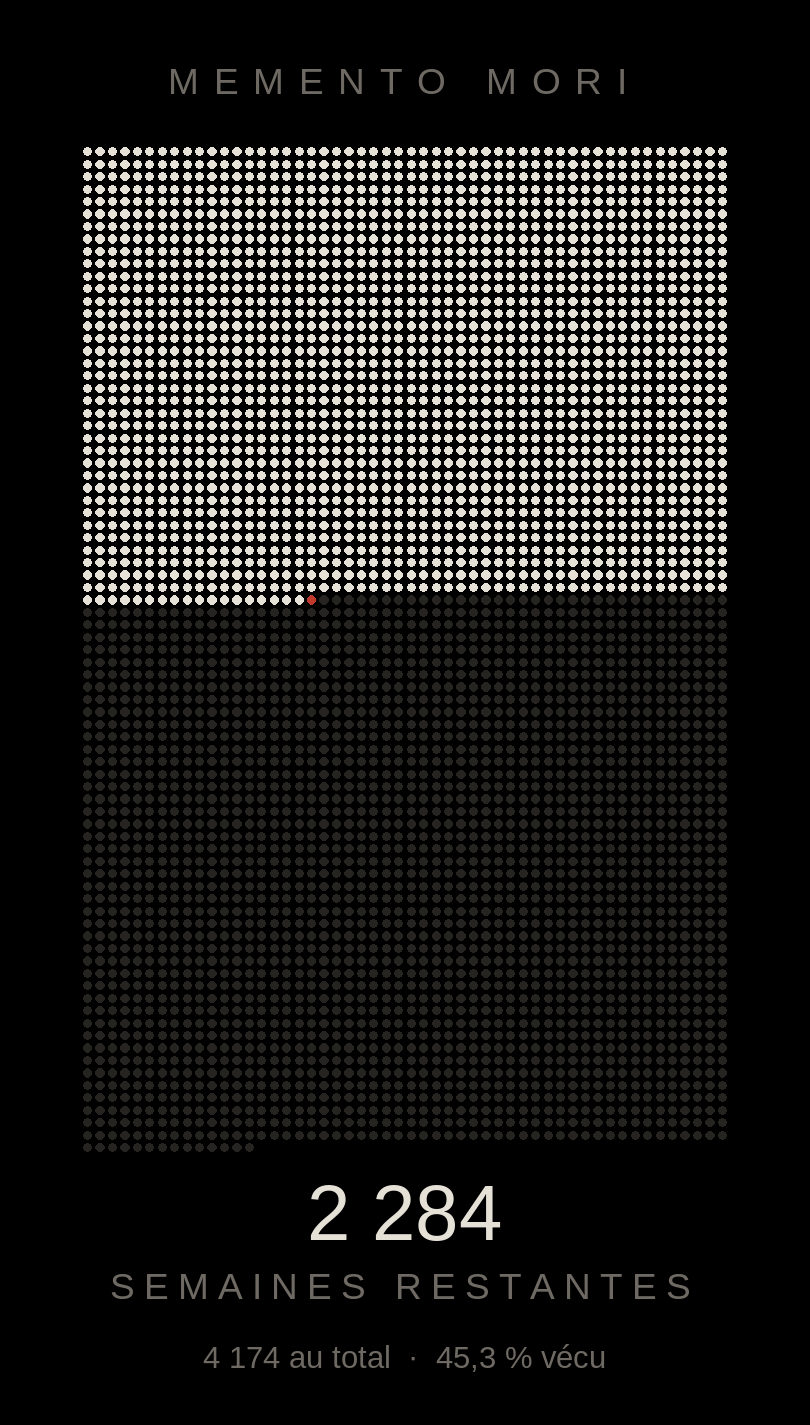
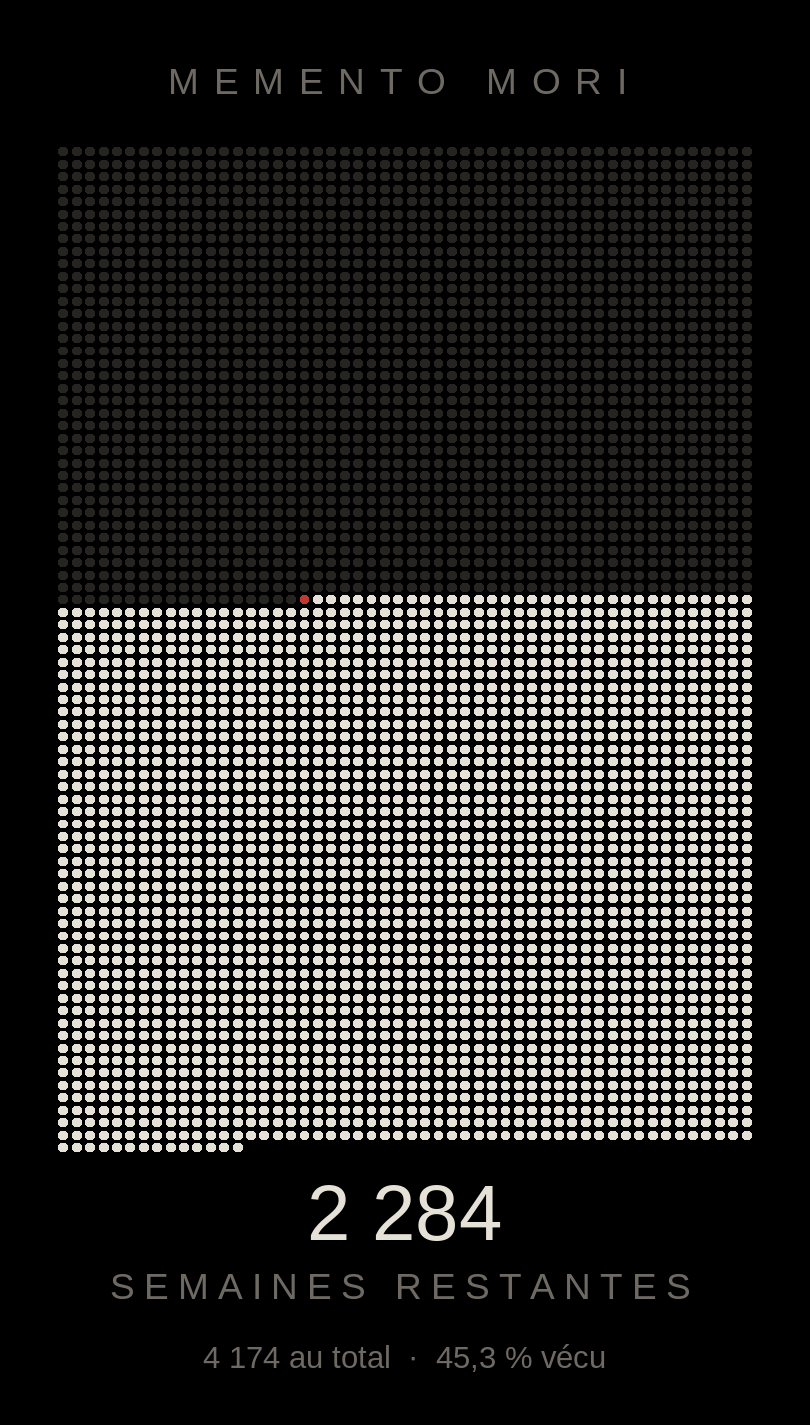
Ce qui reste brille, ce qui est passe s'eteint
La grille se remplissait de blanc a mesure que le temps passe. Elle s'eteint
desormais case par case.

Closes #7

diff --git a/app/src/main/java/fr/kvngch/memento/MementoWidget.kt b/app/src/main/java/fr/kvngch/memento/MementoWidget.kt
@@ -20,9 +20,11 @@ import kotlin.math.ceil
 import kotlin.math.max
 import kotlin.math.min
 
-private const val LIVED = 0xFFE6E1D7.toInt()
+// Le temps qui reste brille, celui qui est passe est eteint : le widget s'eteint
+// case par case au lieu de se remplir.
+private const val REMAINING = 0xFFE6E1D7.toInt()
 private const val NOW = 0xFFC0392B.toInt()
-private const val LEFT = 0xFF262421.toInt()
+private const val SPENT = 0xFF262421.toInt()
 private const val DIM = 0xFF6E6A63.toInt()
 
 class MementoWidget : AppWidgetProvider() {
@@ -107,7 +109,7 @@ private fun draw(width: Int, height: Int, life: Life?, scale: Scale): Bitmap {
     text.letterSpacing = 0f
 
     if (life == null) {
-        text.color = LIVED
+        text.color = REMAINING
         text.textSize = max(11f, h * 0.030f)
         canvas.drawText("Toucher pour régler", w / 2f, h / 2f, text)
         canvas.drawText("la date de naissance", w / 2f, h / 2f + text.textSize * 1.4f, text)
@@ -135,7 +137,7 @@ private fun draw(width: Int, height: Int, life: Life?, scale: Scale): Bitmap {
     canvas.drawText(scale.remaining, w / 2f, labelY, text)
     text.letterSpacing = 0f
 
-    text.color = LIVED
+    text.color = REMAINING
     text.textSize = bigSize
     canvas.drawText(numbers.format(life.remaining), w / 2f, bigY, text)
 
@@ -156,9 +158,9 @@ private fun draw(width: Int, height: Int, life: Life?, scale: Scale): Bitmap {
     val corner = if (gapX == 0f) 0f else (min(cellW, cellH) - 2 * gap) / 2f
     for (i in 0 until life.total) {
         paint.color = when {
-            i < life.lived -> LIVED
+            i < life.lived -> SPENT
             i == life.lived -> NOW
-            else -> LEFT
+            else -> REMAINING
         }
         val x = pad + (i % scale.cols) * cellW
         val y = top + (i / scale.cols) * cellH

diff --git a/README.md b/README.md
@@ -1,12 +1,13 @@
 # Memento Mori
 
 Widget d'écran d'accueil Android qui affiche la vie en semaines. Une case par semaine,
-52 par ligne, donc une ligne par année. Les semaines révolues sont pleines, la semaine en
-cours est rouge, celles qui restent sont éteintes. La grille se règle aussi en mois, ou en
-jours, où chaque ligne devient la barre de progression de son année.
+52 par ligne, donc une ligne par année. Les semaines qui restent brillent, la semaine en
+cours est rouge, celles qui sont passées sont éteintes : la grille s'éteint case par case.
+Elle se règle aussi en mois, ou en jours, où chaque ligne est une année qui s'éteint de
+gauche à droite.
 
 <p align="center">
-  <img src="docs/apercu.png" width="300" alt="Le widget : une grille de 4174 points, les 1890 premiers en blanc, le suivant en rouge, et 2284 semaines restantes annoncées sous la grille">
+  <img src="docs/apercu.png" width="300" alt="Le widget : une grille de 4174 points, les 1890 premiers éteints, le suivant en rouge, les 2284 derniers en blanc, et le compte des semaines restantes sous la grille">
 </p>
 
 Sous la grille, le nombre de semaines qui restent, le total et la part déjà vécue.
